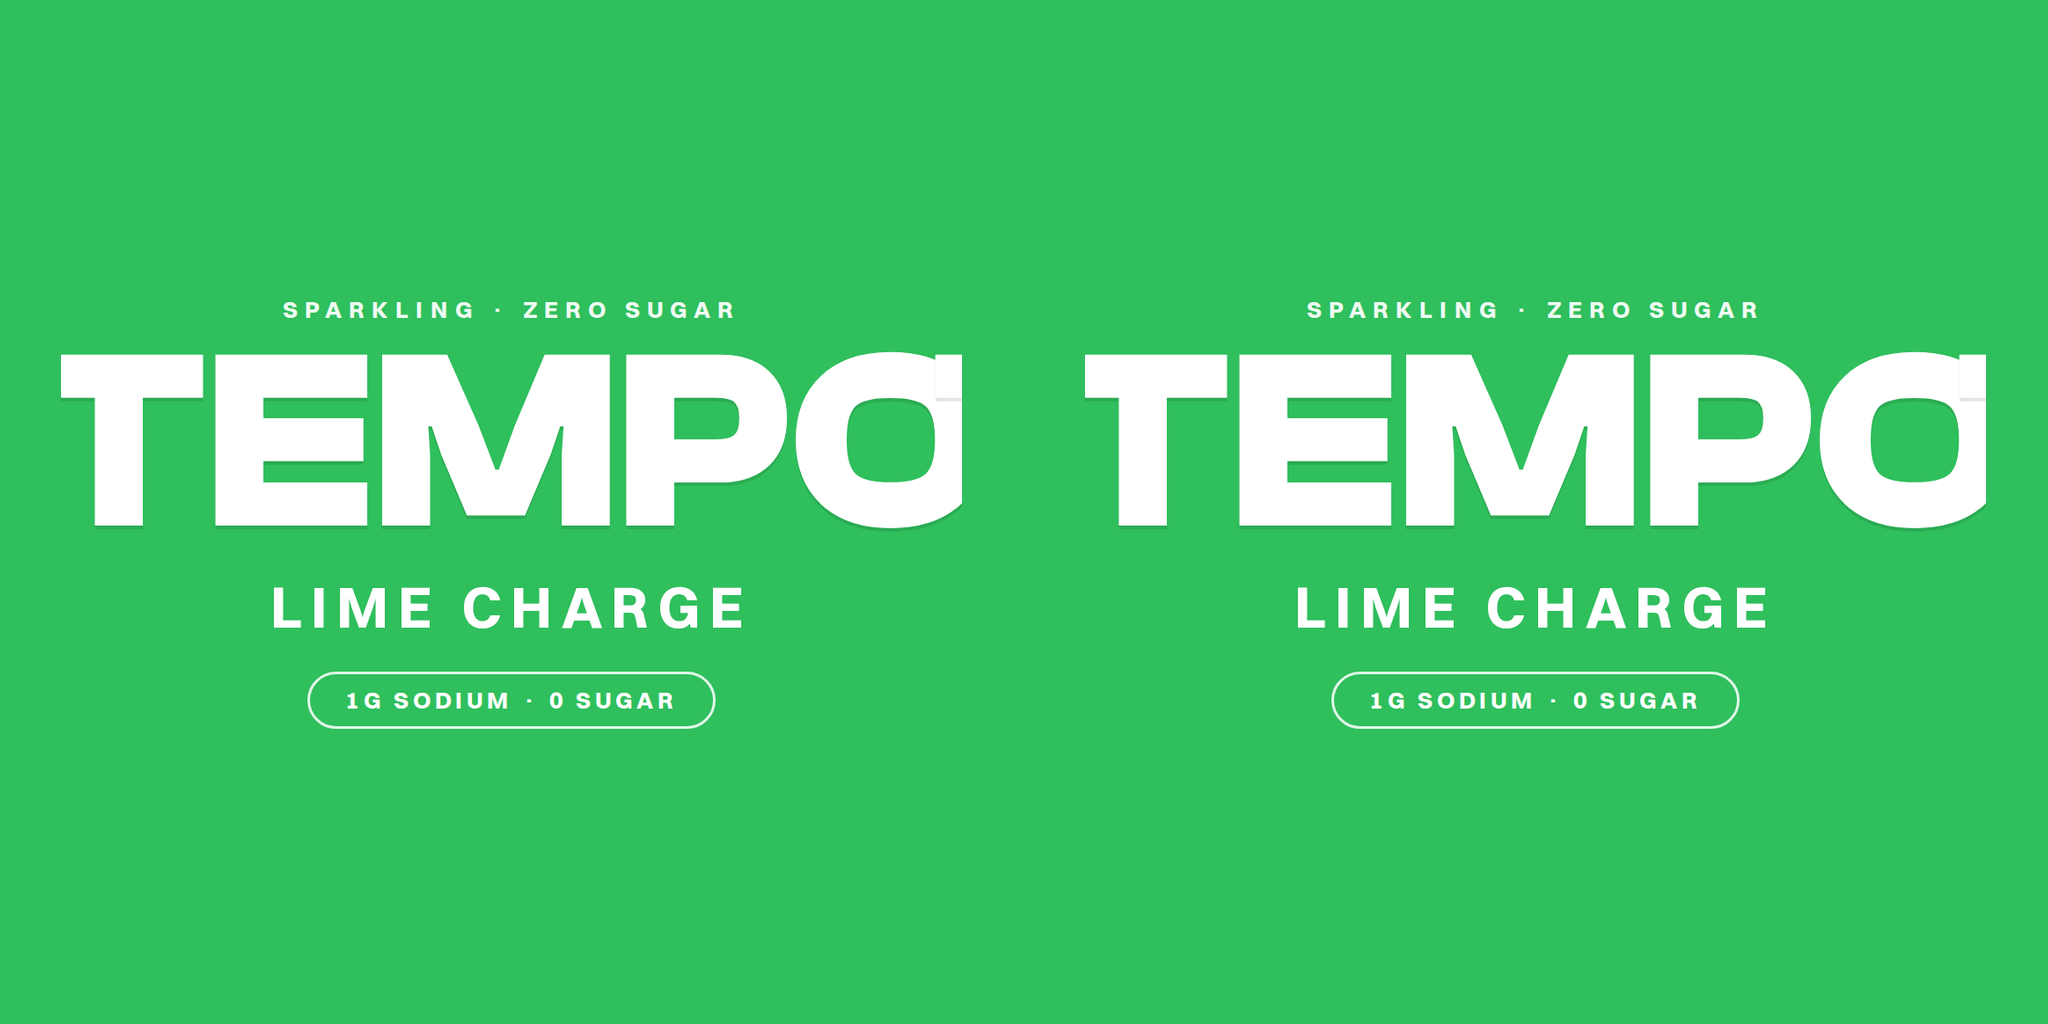
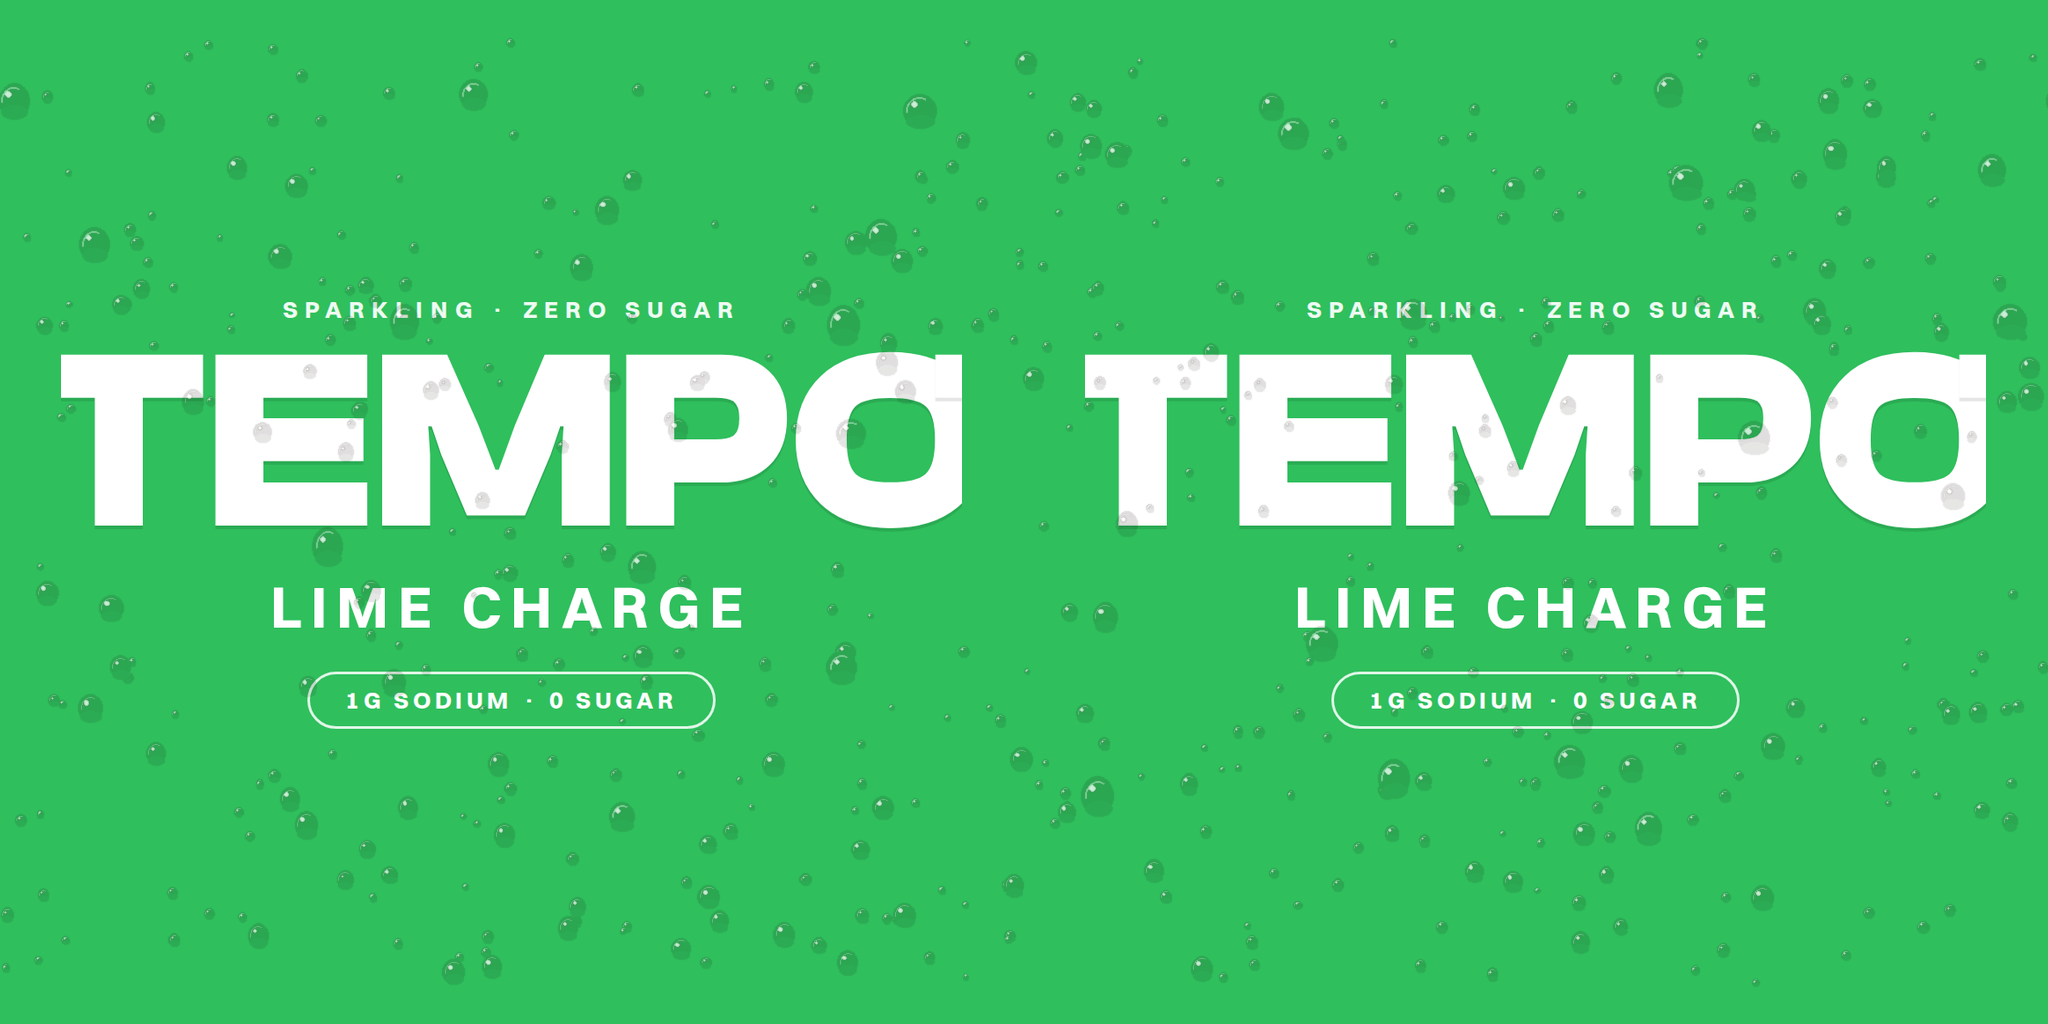
labels: bake condensation droplets; regenerate fallback renders (find us cold, literally)

diff --git a/app.js b/app.js
@@ -95,7 +95,7 @@
 
   /* ── Static fallback image (shown only when WebGL is unavailable) ── */
   function updateFallbacks() {
-    const src = 'assets/can_' + state.flavor + '.png?v=4';
+    const src = 'assets/can_' + state.flavor + '.png?v=5';
     $$('.can-slot--hero .can-fallback, .can-slot--stage .can-fallback').forEach((img) => {
       if (img.getAttribute('src') !== src) img.setAttribute('src', src);
     });
@@ -178,7 +178,7 @@
       return '<article class="sku' + (s.featured ? ' sku--featured' : '') + '">' +
         (s.tag ? '<span class="sku__tag">' + s.tag + '</span>' : '') +
         '<div class="sku__art can-slot" data-can3d data-role="sku" data-flavor="' + key + '">' +
-        '<img class="can-fallback" src="assets/can_' + key + '.png?v=4" alt="A can of TEMPO ' + FLAVORS[key].name + '" /></div>' +
+        '<img class="can-fallback" src="assets/can_' + key + '.png?v=5" alt="A can of TEMPO ' + FLAVORS[key].name + '" /></div>' +
         '<h3>' + s.h + '</h3><p class="sku__desc">' + s.desc + '</p>' +
         '<div class="sku__price">' + s.price + ' <small>EGP ' + s.unit + '</small></div>' +
         '<div class="sku__buy"><button class="btn btn--solid" data-add="' + s.h + '" data-magnetic data-cursor="add">Add to cart</button></div>' +

diff --git a/can3d.js b/can3d.js
@@ -75,7 +75,7 @@ function boot() {
   const texLoader = new THREE.TextureLoader();
   const textures = {};
   ['citrus', 'berry', 'lime'].forEach((k) => {
-    const t = texLoader.load('assets/label_' + k + '.png?v=4');
+    const t = texLoader.load('assets/label_' + k + '.png?v=5');
     t.colorSpace = THREE.SRGBColorSpace; t.flipY = false; t.anisotropy = 8;
     t.wrapS = THREE.RepeatWrapping;   // UV wraps the full circumference; keep the seam clean
     textures[k] = t;

diff --git a/index.html b/index.html
@@ -248,7 +248,7 @@
 
   <div class="toast" id="toast" role="status" aria-live="polite" hidden></div>
 
-  <script src="app.js?v=9"></script>
+  <script src="app.js?v=10"></script>
   <script type="importmap">
   {
     "imports": {
@@ -257,6 +257,6 @@
     }
   }
   </script>
-  <script type="module" src="can3d.js?v=7"></script>
+  <script type="module" src="can3d.js?v=8"></script>
 </body>
 </html>

diff --git a/src-model/tools/add_condensation.py b/src-model/tools/add_condensation.py
@@ -1,0 +1,72 @@
+# Bake condensation droplets onto the label textures (assets/label_*.png).
+#
+# ONE-SHOT like rework_labels.py: running it twice doubles the droplets.
+# Pristine labels live in git history (pre-<this commit>) and in
+# src-model/labels-pre-condensation/ if you made the local backup first.
+#
+# Deterministic: seeded per flavour, so a re-run from pristine inputs always
+# produces the same file. The label wraps the can (2 repeats across x), so
+# droplets near the x edges are drawn again shifted by ±width to keep the
+# seam clean.
+
+import os, random
+from PIL import Image, ImageDraw, ImageFilter
+
+ROOT = os.path.join(os.path.dirname(os.path.abspath(__file__)), '..', '..')
+FLAVORS = ['citrus', 'berry', 'lime']
+
+# the wordmark band (v-range of the big TEMPO type) gets half density
+WORDMARK = (0.42, 0.62)
+
+
+def droplet_layer(w, h, seed):
+    rng = random.Random(seed)
+    layer = Image.new('RGBA', (w, h), (0, 0, 0, 0))
+    d = ImageDraw.Draw(layer)
+
+    def blob(cx, cy, r):
+        ry = r * rng.uniform(1.0, 1.25)          # slight gravity stretch
+        for dx in (-w, 0, w):                     # wrap the seam
+            x = cx + dx
+            if x + r < 0 or x - r > w:
+                continue
+            # body: darken + a hair of shadow low-right
+            d.ellipse([x - r, cy - ry, x + r, cy + ry], fill=(20, 10, 5, 34))
+            d.ellipse([x - r * .8, cy + ry * .25, x + r * .9, cy + ry * 1.05],
+                      fill=(10, 5, 0, 26))
+            # refraction highlight: bright arc top-left
+            d.arc([x - r * .78, cy - ry * .78, x + r * .78, cy + ry * .78],
+                  start=170, end=300, fill=(255, 255, 255, 110), width=max(1, int(r * .16)))
+            # specular dot
+            sr = max(1, r * .18)
+            d.ellipse([x - r * .34 - sr, cy - ry * .38 - sr, x - r * .34 + sr, cy - ry * .38 + sr],
+                      fill=(255, 255, 255, 190))
+
+    def keep(cy):
+        v = cy / h
+        if WORDMARK[0] < v < WORDMARK[1]:
+            return rng.random() < 0.5
+        return True
+
+    for _ in range(430):                          # small fog of fine drops
+        cy = rng.uniform(h * .04, h * .96)
+        if keep(cy):
+            blob(rng.uniform(0, w), cy, rng.uniform(2.5, 6))
+    for _ in range(150):                          # medium
+        cy = rng.uniform(h * .05, h * .95)
+        if keep(cy):
+            blob(rng.uniform(0, w), cy, rng.uniform(6, 12))
+    for _ in range(28):                           # a few heavy beads
+        cy = rng.uniform(h * .08, h * .92)
+        if keep(cy):
+            blob(rng.uniform(0, w), cy, rng.uniform(12, 17))
+
+    return layer.filter(ImageFilter.GaussianBlur(0.6))
+
+
+for i, k in enumerate(FLAVORS):
+    p = os.path.join(ROOT, 'assets', 'label_%s.png' % k)
+    im = Image.open(p).convert('RGBA')
+    im.alpha_composite(droplet_layer(im.width, im.height, seed=1000 + i))
+    im.convert('RGB').save(p)
+    print('condensed', p)
